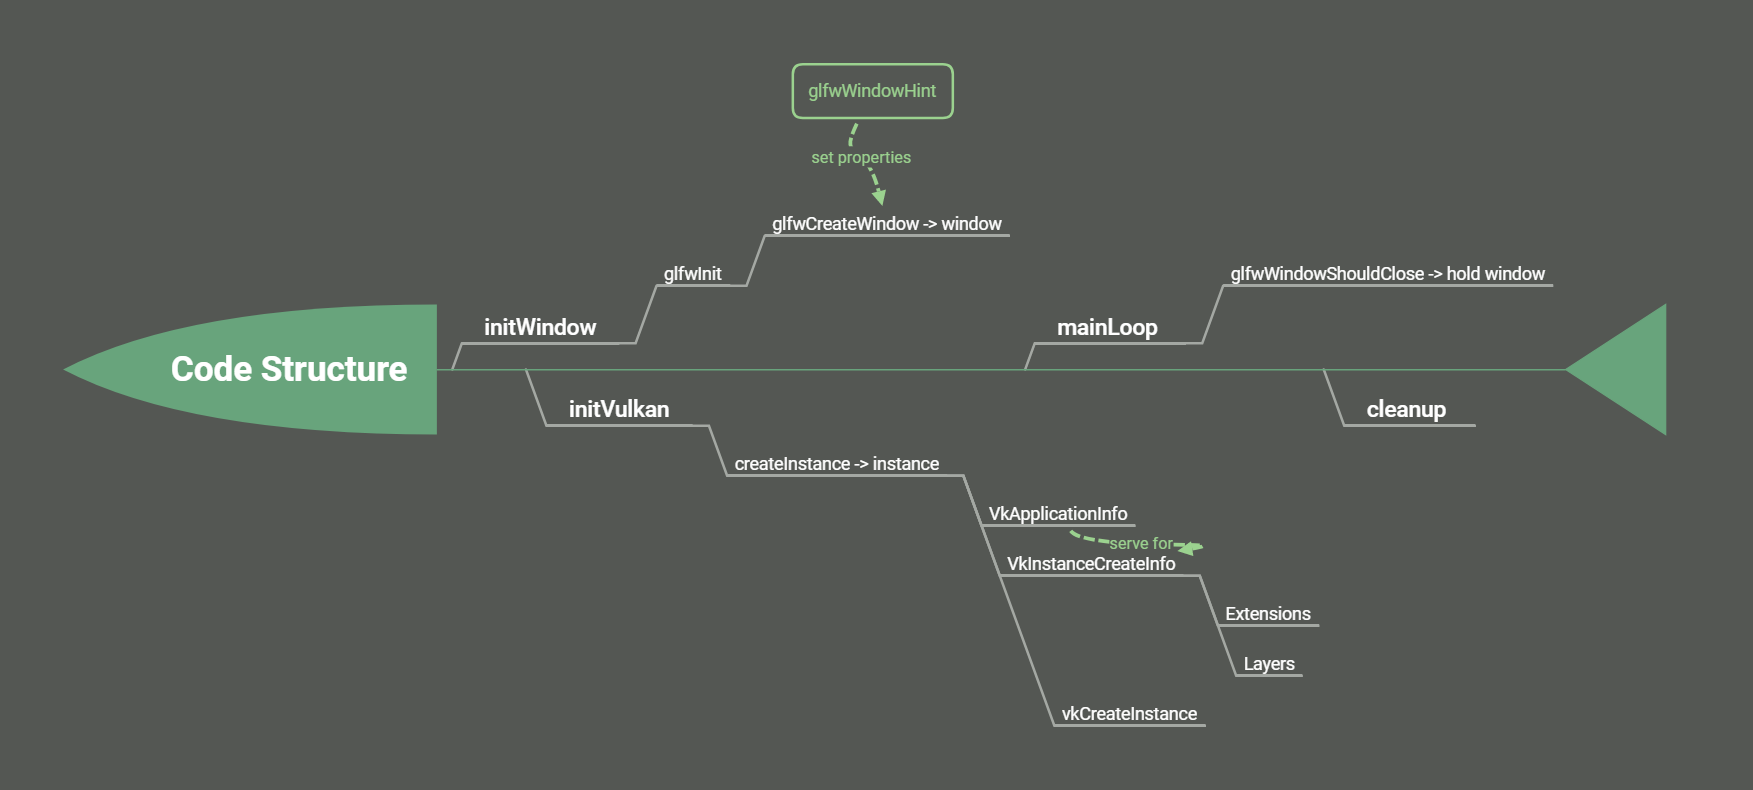
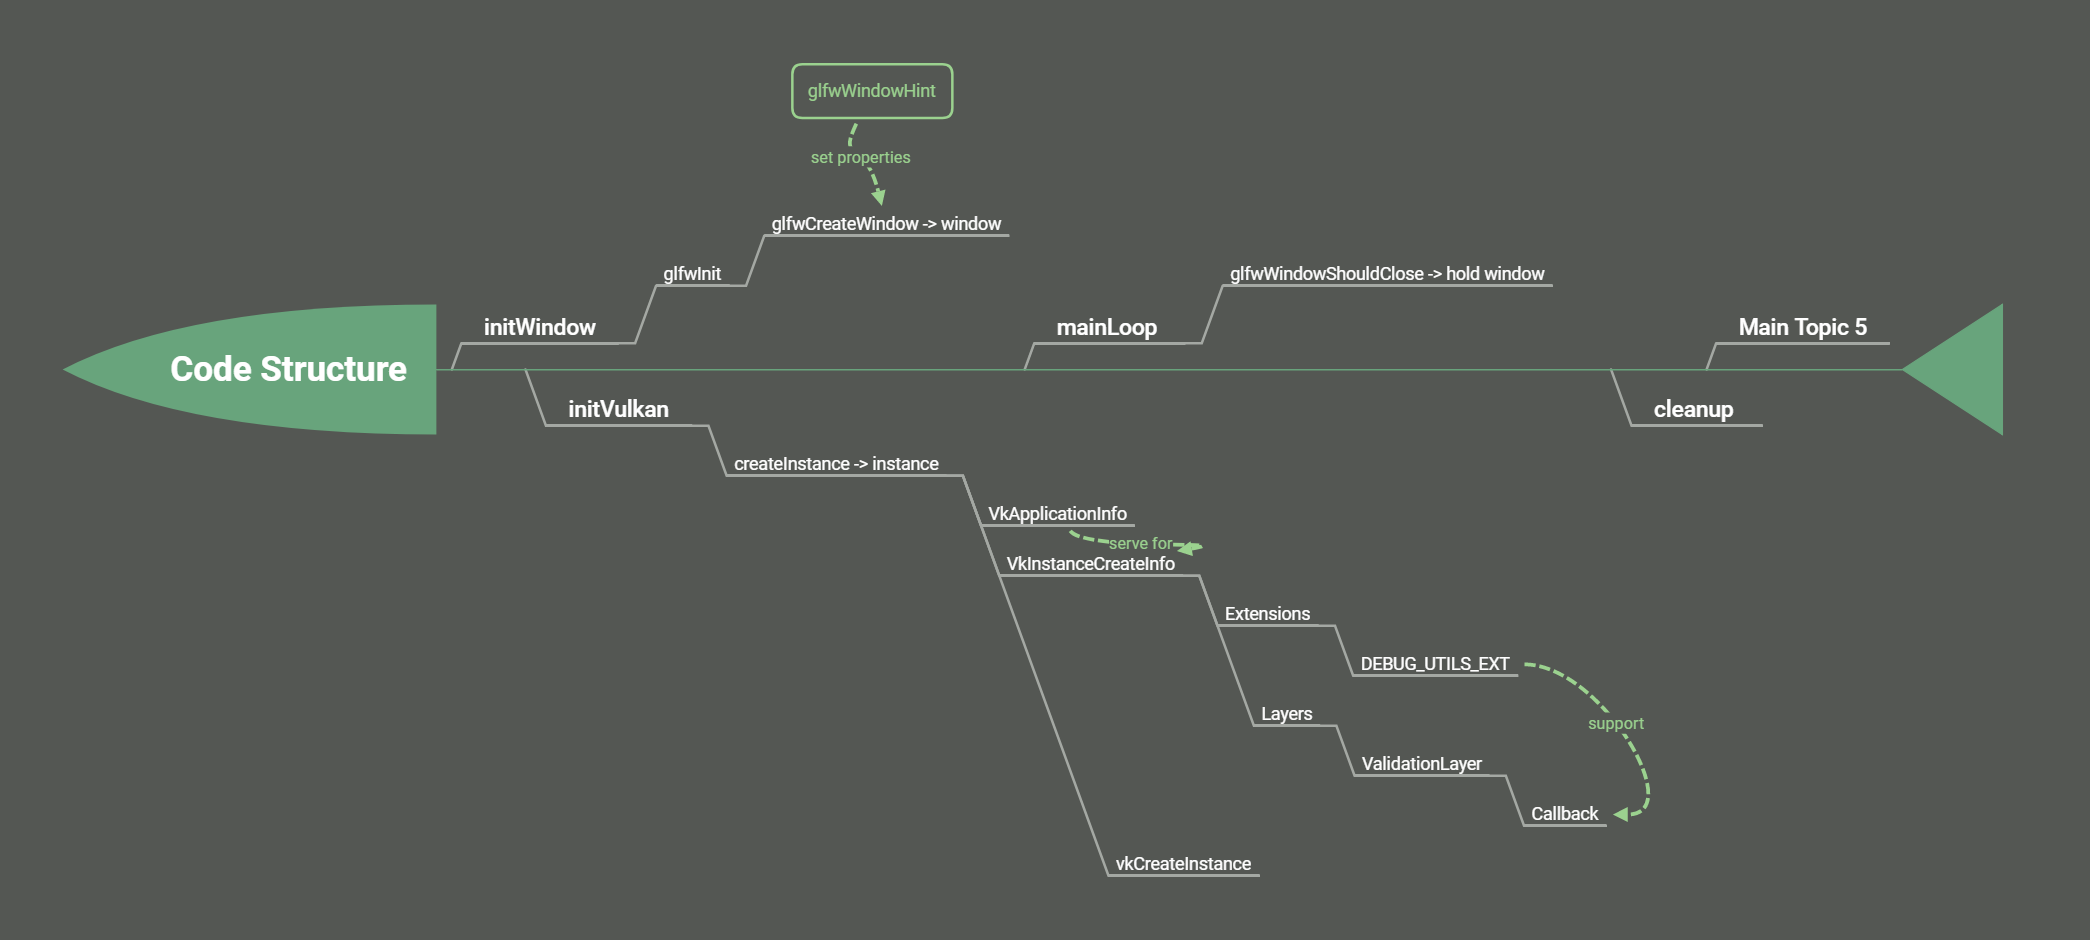
add validation layer

diff --git a/src/main.cpp b/src/main.cpp
@@ -6,6 +6,27 @@
 #include <cstdlib>
 #include <GLFW/glfw3.h>
 #include <vector>
+#include <cstring>
+
+VkResult CreateDebugUtilsMessengerEXT(VkInstance instance, const VkDebugUtilsMessengerCreateInfoEXT *pCreateInfo,
+                                      const VkAllocationCallbacks *pAllocator,
+                                      VkDebugUtilsMessengerEXT *pDebugMessenger) {
+    auto func = (PFN_vkCreateDebugUtilsMessengerEXT) vkGetInstanceProcAddr(instance, "vkCreateDebugUtilsMessengerEXT");
+    if (func != nullptr) {
+        return func(instance, pCreateInfo, pAllocator, pDebugMessenger);
+    } else {
+        return VK_ERROR_EXTENSION_NOT_PRESENT;
+    }
+}
+
+void DestroyDebugUtilsMessengerEXT(VkInstance instance, VkDebugUtilsMessengerEXT debugMessenger,
+                                   const VkAllocationCallbacks *pAllocator) {
+    auto func = (PFN_vkDestroyDebugUtilsMessengerEXT) vkGetInstanceProcAddr(instance,
+                                                                            "vkDestroyDebugUtilsMessengerEXT");
+    if (func != nullptr) {
+        func(instance, debugMessenger, pAllocator);
+    }
+}
 
 class HelloTriangleApplication {
 public:
@@ -22,9 +43,21 @@ private:
 
     GLFWwindow *window;
     VkInstance instance;
+    VkDebugUtilsMessengerEXT debugMessenger;
+
+    const std::vector<const char *> validationLayers = {
+            "VK_LAYER_KHRONOS_validation"
+    };
+
+#ifdef NDEBUG
+    const bool enableValidationLayers = false;
+#else
+    const bool enableValidationLayers = true;
+#endif
 
     void initWindow() {
         glfwInit();
+
         glfwWindowHint(GLFW_CLIENT_API, GLFW_NO_API);
         glfwWindowHint(GLFW_RESIZABLE, GLFW_FALSE);
 
@@ -32,6 +65,10 @@ private:
     }
 
     void createInstance() {
+        if (enableValidationLayers && !checkValidationLayerSupport()) {
+            throw std::runtime_error("validation layers requested, but not available!");
+        }
+
         VkApplicationInfo appInfo = {};
         appInfo.sType = VK_STRUCTURE_TYPE_APPLICATION_INFO;
         appInfo.pApplicationName = "Hello Triangle";
@@ -44,25 +81,101 @@ private:
         createInfo.sType = VK_STRUCTURE_TYPE_INSTANCE_CREATE_INFO;
         createInfo.pApplicationInfo = &appInfo;
 
-        uint32_t glfwExtensionCount = 0;
-        const char **glfwExtensions;
+        auto extensions = getRequiredExtensions();
+        createInfo.enabledExtensionCount = static_cast<uint32_t>(extensions.size());
+        createInfo.ppEnabledExtensionNames = extensions.data();
 
-        glfwExtensions = glfwGetRequiredInstanceExtensions(&glfwExtensionCount);
+        VkDebugUtilsMessengerCreateInfoEXT debugCreateInfo;
+        if (enableValidationLayers) {
+            createInfo.enabledLayerCount = static_cast<uint32_t>(validationLayers.size());
+            createInfo.ppEnabledLayerNames = validationLayers.data();
 
-        createInfo.enabledExtensionCount = glfwExtensionCount;
-        createInfo.ppEnabledExtensionNames = glfwExtensions;
+            populateDebugMessengerCreateInfo(debugCreateInfo);
+            createInfo.pNext = (VkDebugUtilsMessengerCreateInfoEXT *) &debugCreateInfo;
+        } else {
+            createInfo.enabledLayerCount = 0;
 
-        createInfo.enabledLayerCount = 0;
-
-        VkResult result = vkCreateInstance(&createInfo, nullptr, &instance);
+            createInfo.pNext = nullptr;
+        }
 
         if (vkCreateInstance(&createInfo, nullptr, &instance) != VK_SUCCESS) {
             throw std::runtime_error("failed to create instance!");
         }
     }
 
+    static VKAPI_ATTR VkBool32 VKAPI_CALL debugCallback(
+            VkDebugUtilsMessageSeverityFlagBitsEXT messageSeverity,
+            VkDebugUtilsMessageTypeFlagsEXT messageType,
+            const VkDebugUtilsMessengerCallbackDataEXT *pCallbackData,
+            void *pUserData) {
+        std::cerr << "Validation Layer: " << pCallbackData->pMessage << std::endl;
+
+        return VK_FALSE;
+    }
+
+    std::vector<const char *> getRequiredExtensions() {
+        uint32_t glfwExtensionCount = 0;
+        const char **glfwExtensions;
+        glfwExtensions = glfwGetRequiredInstanceExtensions(&glfwExtensionCount);
+
+        std::vector<const char *> extensions(glfwExtensions, glfwExtensions + glfwExtensionCount);
+
+        if (enableValidationLayers) {
+            extensions.push_back(VK_EXT_DEBUG_UTILS_EXTENSION_NAME);
+        }
+        return extensions;
+    }
+
+    bool checkValidationLayerSupport() {
+        uint32_t layerCount;
+        vkEnumerateInstanceLayerProperties(&layerCount, nullptr);
+
+        std::vector<VkLayerProperties> availableLayers(layerCount);
+        vkEnumerateInstanceLayerProperties(&layerCount, availableLayers.data());
+
+        for (const char *layerName : validationLayers) {
+            bool layerFound = false;
+
+            for (const auto &layerProperties:availableLayers) {
+                if (strcmp(layerName, layerProperties.layerName) == 0) {
+                    layerFound = true;
+                    break;
+                }
+            }
+            if (!layerFound)
+                return false;
+        }
+        return true;
+    }
+
     void initVulkan() {
         createInstance();
+        setupDebugMessenger();
+    }
+
+    void populateDebugMessengerCreateInfo(VkDebugUtilsMessengerCreateInfoEXT &createInfo) {
+        createInfo = {};
+        createInfo.sType = VK_STRUCTURE_TYPE_DEBUG_UTILS_MESSENGER_CREATE_INFO_EXT;
+        createInfo.messageSeverity =
+                VK_DEBUG_UTILS_MESSAGE_SEVERITY_VERBOSE_BIT_EXT |
+                VK_DEBUG_UTILS_MESSAGE_SEVERITY_WARNING_BIT_EXT |
+                VK_DEBUG_UTILS_MESSAGE_SEVERITY_ERROR_BIT_EXT;
+        createInfo.messageType =
+                VK_DEBUG_UTILS_MESSAGE_TYPE_GENERAL_BIT_EXT |
+                VK_DEBUG_UTILS_MESSAGE_TYPE_VALIDATION_BIT_EXT |
+                VK_DEBUG_UTILS_MESSAGE_TYPE_PERFORMANCE_BIT_EXT;
+        createInfo.pfnUserCallback = debugCallback;
+    }
+
+    void setupDebugMessenger() {
+        if (!enableValidationLayers) return;
+
+        VkDebugUtilsMessengerCreateInfoEXT createInfo = {};
+        populateDebugMessengerCreateInfo(createInfo);
+
+        if (CreateDebugUtilsMessengerEXT(instance, &createInfo, nullptr, &debugMessenger) != VK_SUCCESS) {
+            throw std::runtime_error("failed to set up debug messenger!");
+        }
     }
 
     void mainLoop() {
@@ -72,6 +185,10 @@ private:
     }
 
     void cleanup() {
+        if (enableValidationLayers) {
+            DestroyDebugUtilsMessengerEXT(instance, debugMessenger, nullptr);
+        }
+
         vkDestroyInstance(instance, nullptr);
         glfwDestroyWindow(window);
 
